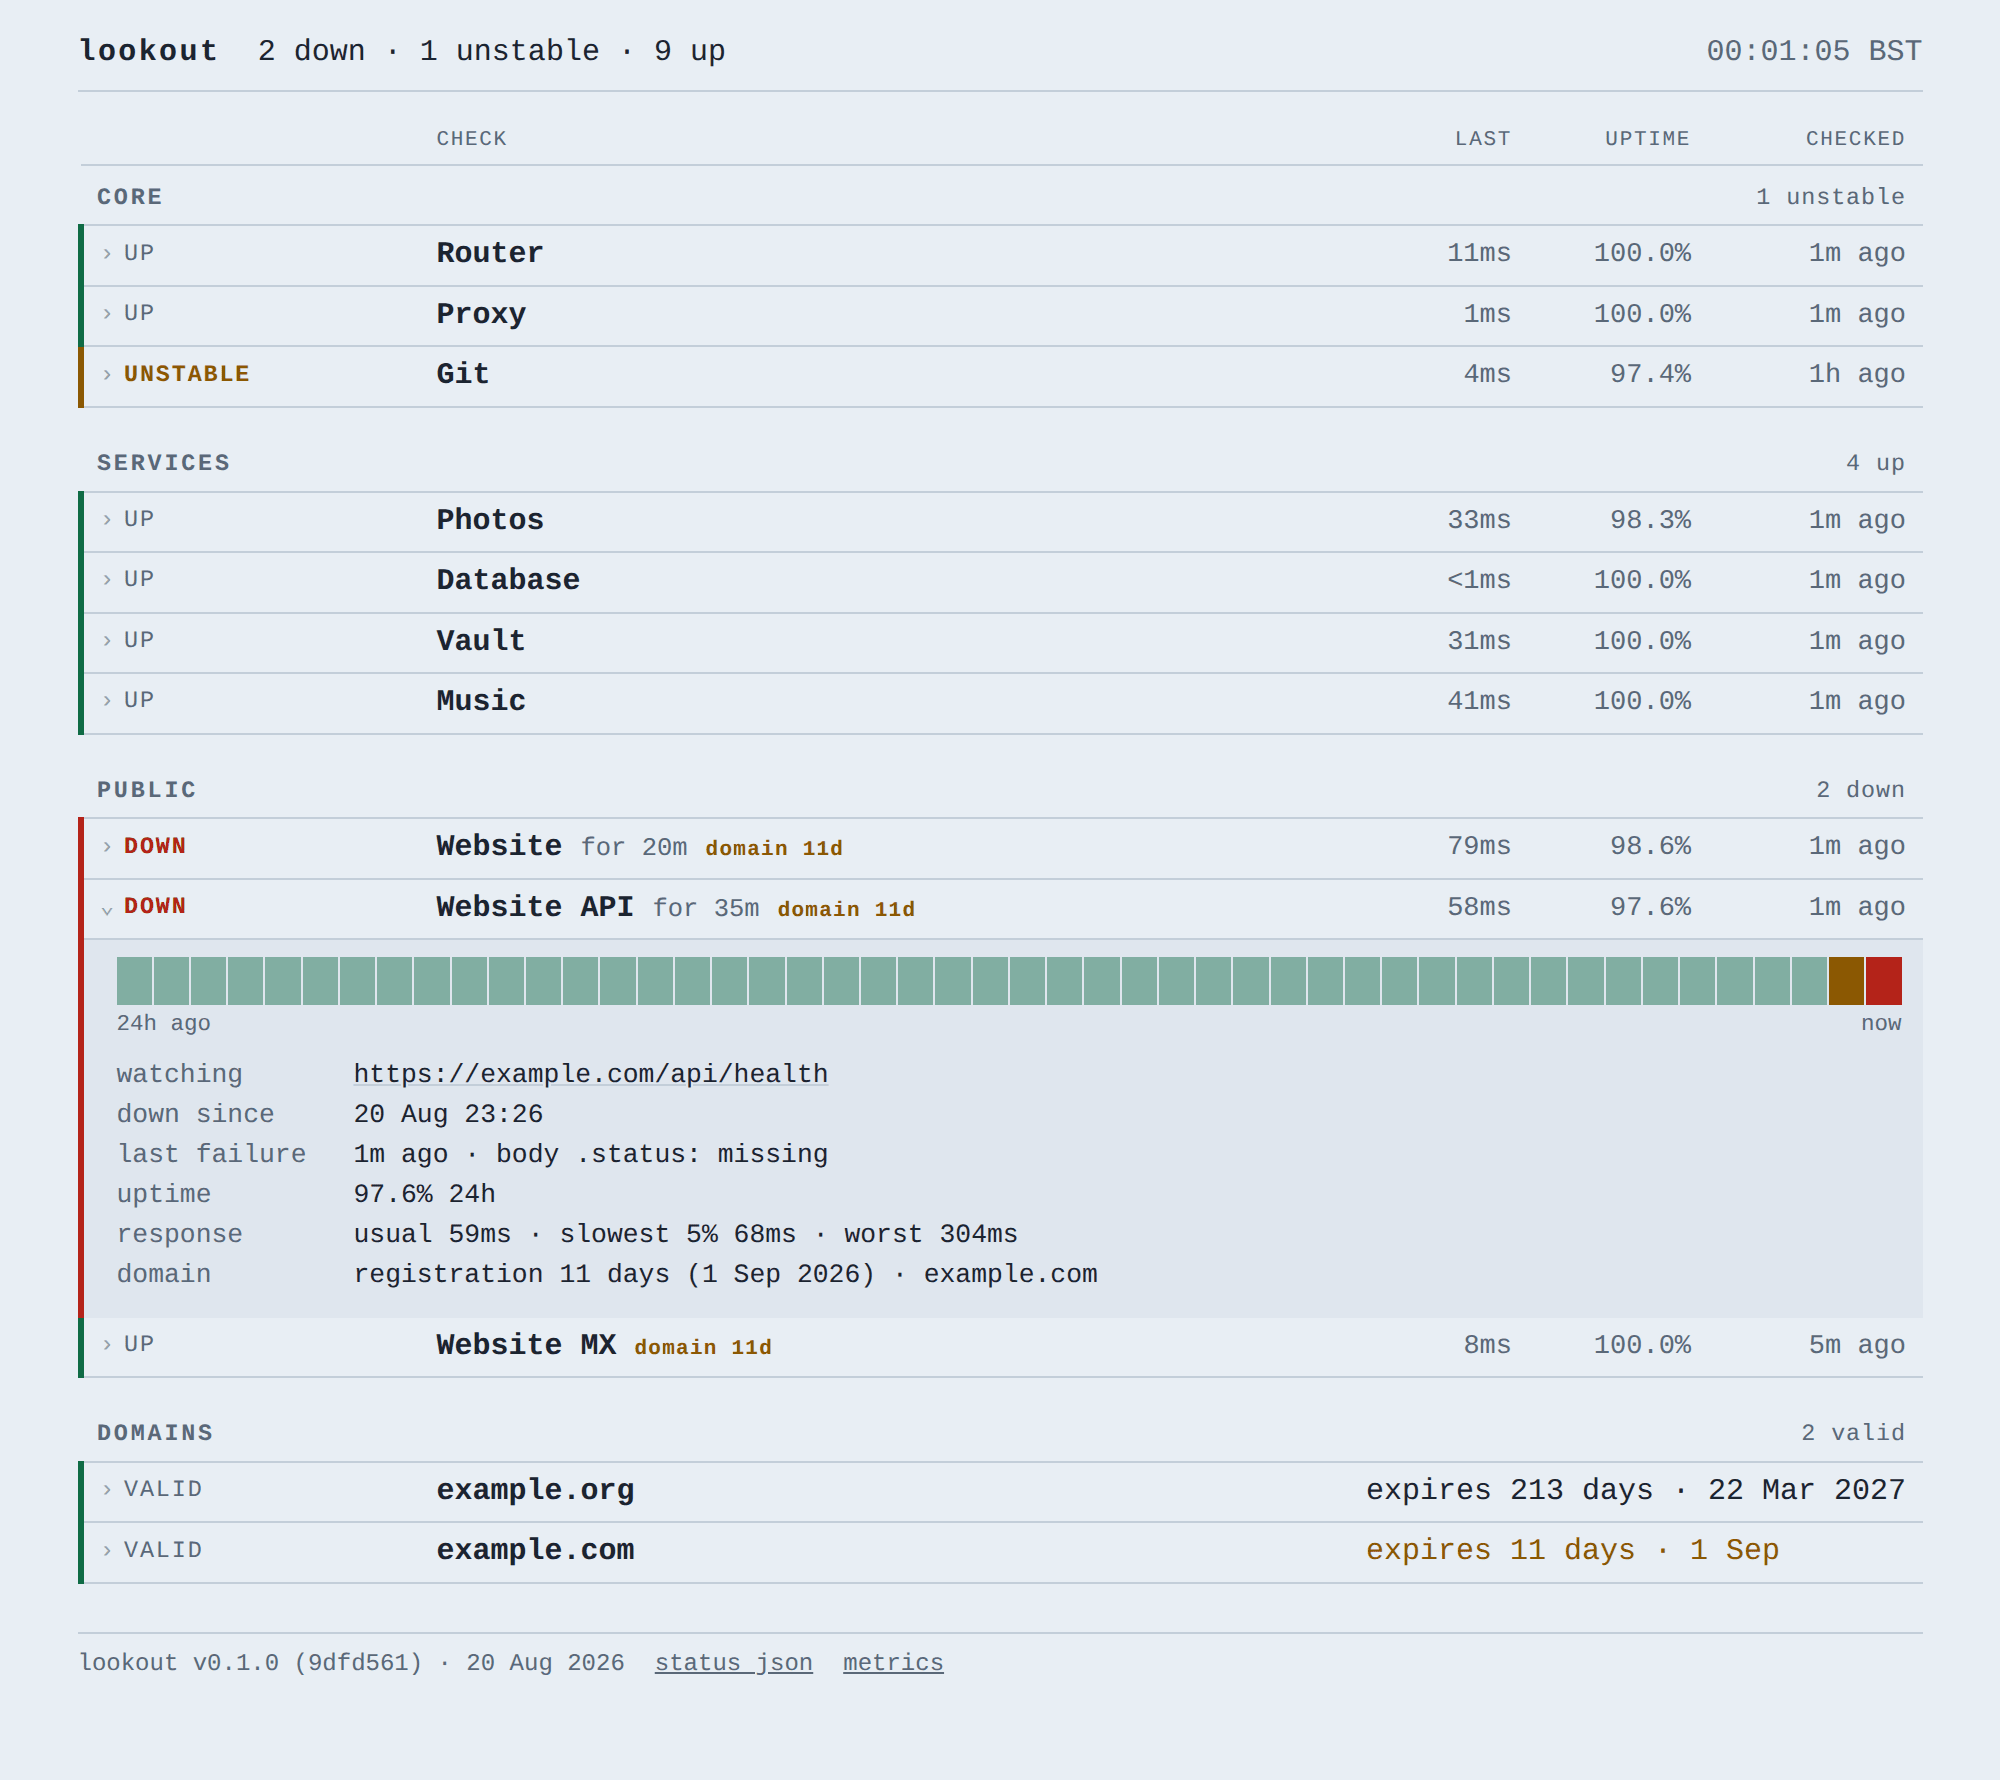
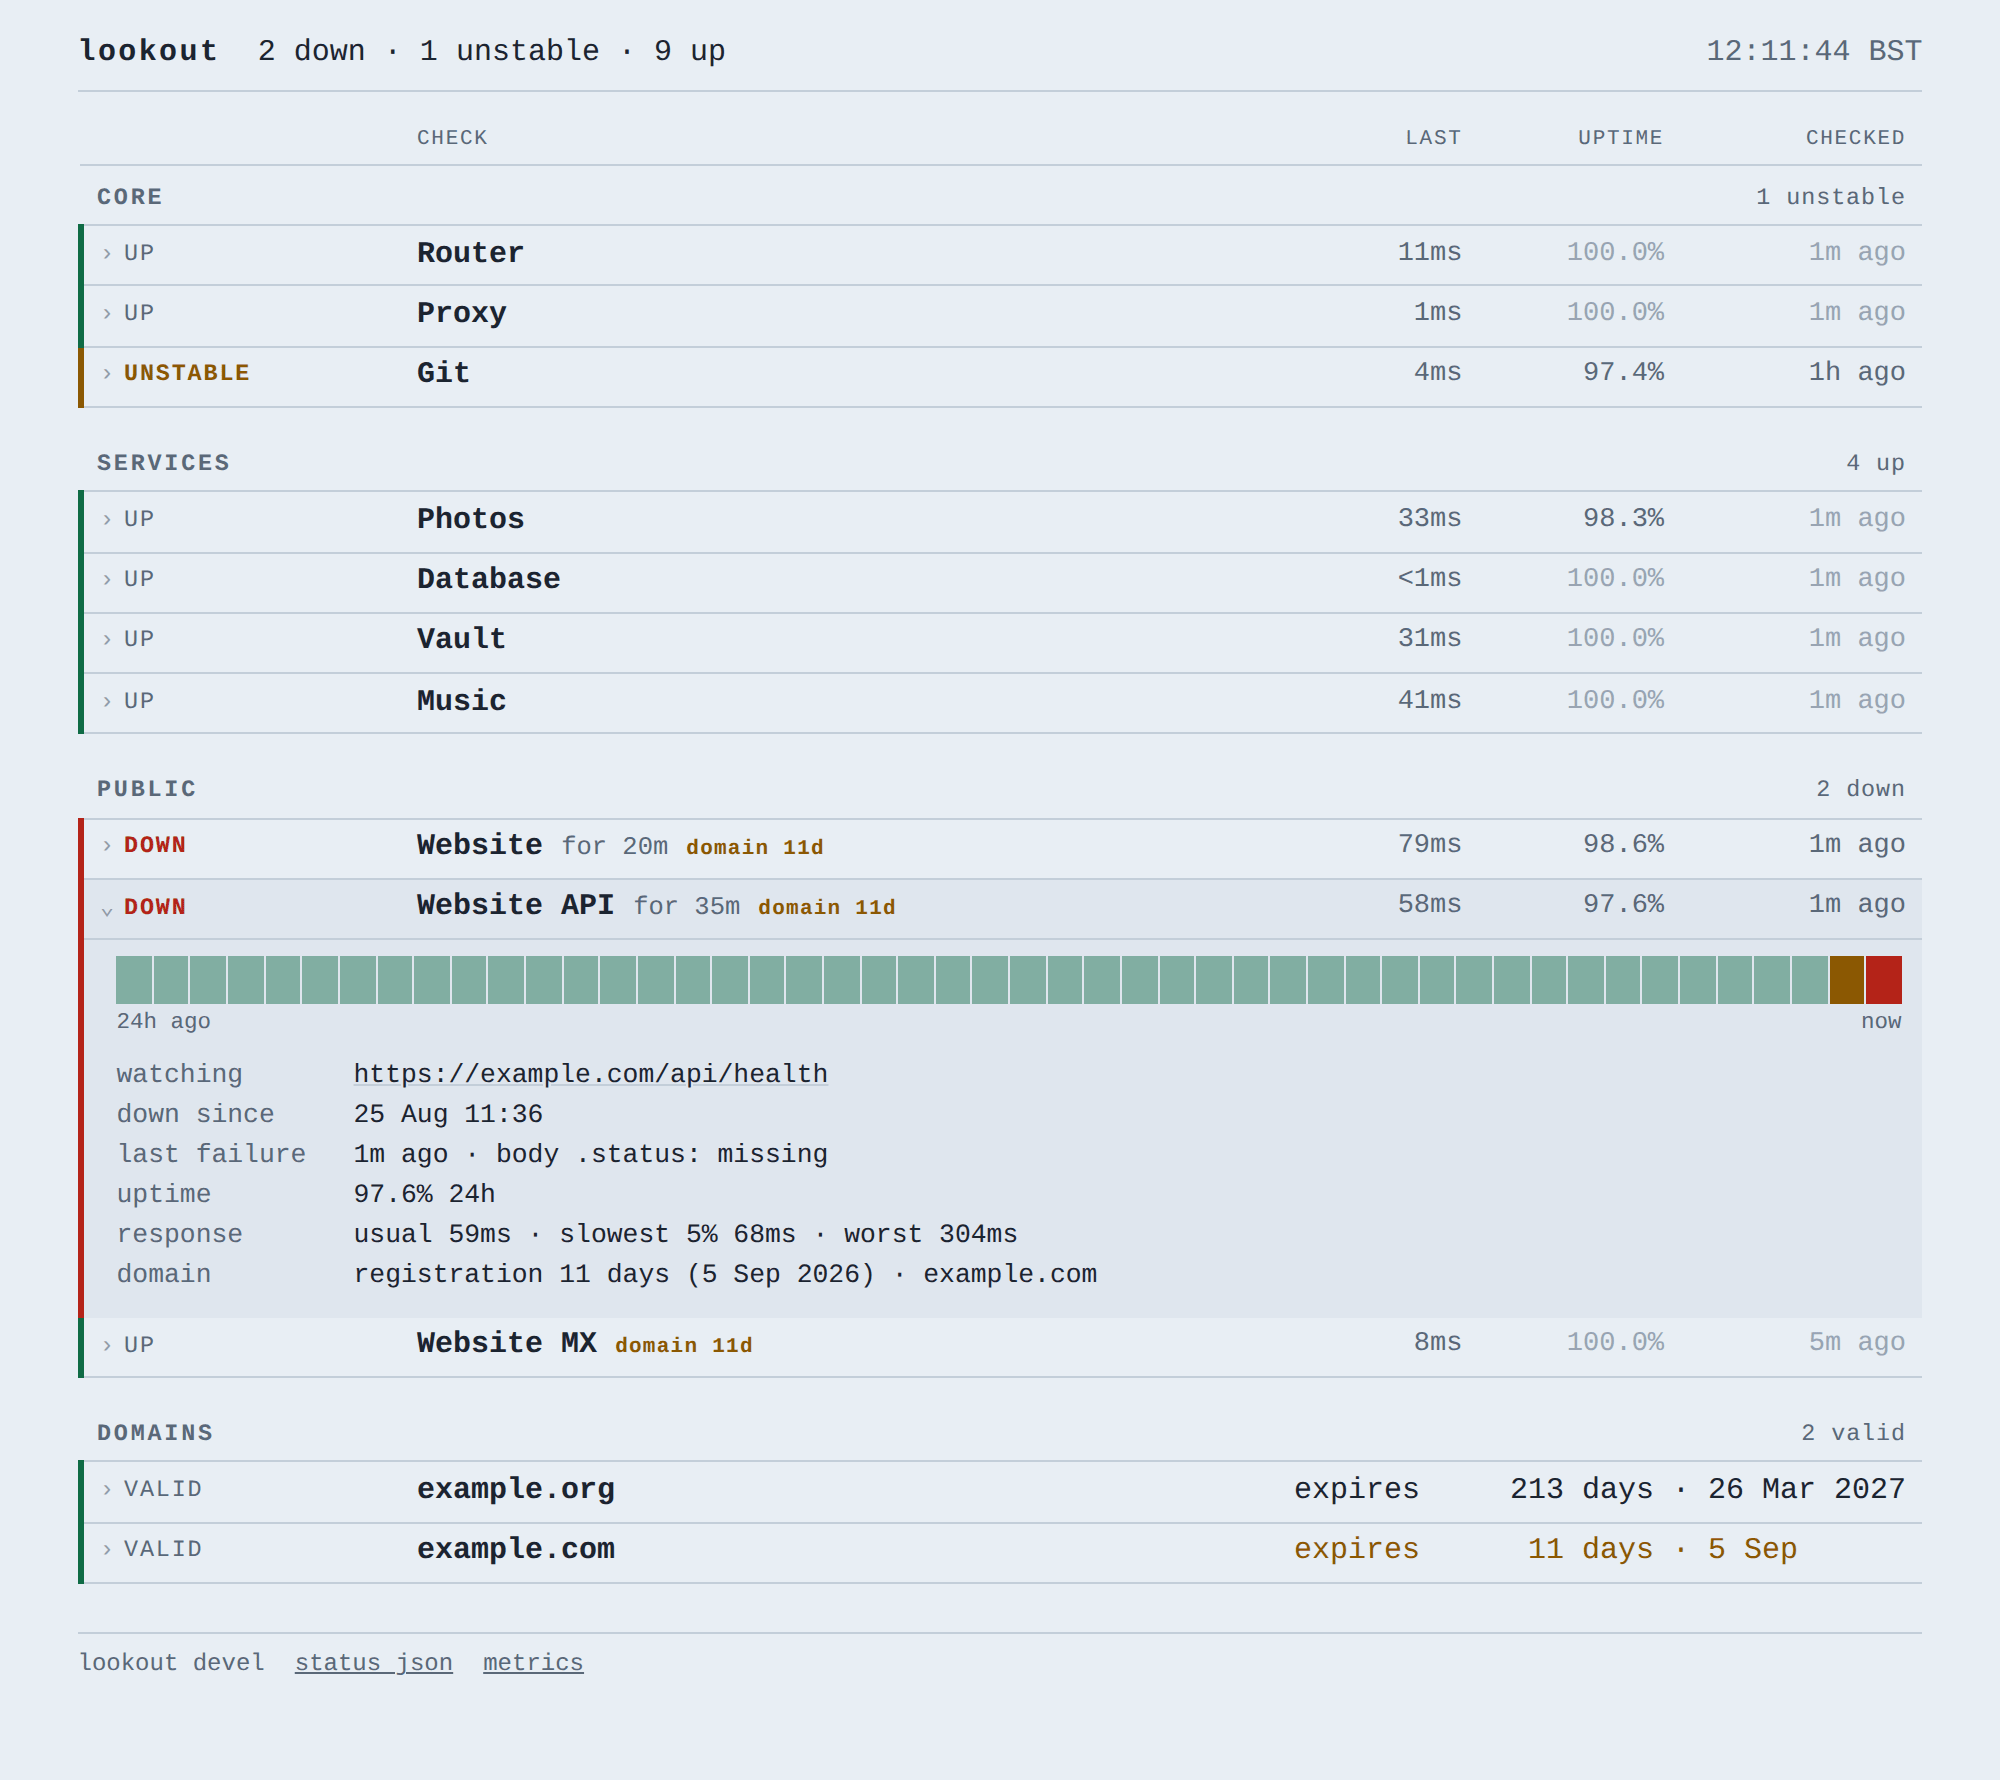
Dim the quiet values with colour, not opacity
An opacity below 1 made the cell a stacking context, which painted it over
the transparent label that makes the row clickable: the dimmed cells stopped
opening the row while the loud one beside them still did.

diff --git a/internal/web/page.css b/internal/web/page.css
@@ -9,6 +9,7 @@
   --panel: #dfe6ee;
   --ink: #1b2430;
   --mute: #5a6878;
+  --faint: #97a4b2;
   --rule: #c3ced9;
   --up: #0f6b45;
   --down: #b42318;
@@ -28,6 +29,7 @@
     --panel: #161d25;
     --ink: #dce4ed;
     --mute: #8b98a6;
+    --faint: #5c6977;
     --rule: #2a343f;
     --up: #3dcc86;
     --down: #ff6d63;
@@ -272,9 +274,13 @@ thead .c-nm { text-align: left; }
    landed on time — is still printed, because the board is evidence and the
    number has to survive a screenshot, a grep and a screen reader. It is
    printed quietly so that the row that departs from the norm is the row the
-   eye lands on. Opacity rather than a colour: it works in both themes and
-   cannot accidentally read as one of the four state colours. */
-.num.quiet { opacity: 0.45; }
+   eye lands on.
+   A colour, and never opacity: opacity below 1 makes the cell a stacking
+   context, which paints it above the transparent label that makes the whole
+   row clickable. The row then opened everywhere except on the cells that
+   were dimmed — the quiet ones swallowed the click and the loud one next to
+   them did not. */
+.num.quiet { color: var(--faint); }
 .ago { color: var(--mute); }
 
 .tag {

diff --git a/internal/web/server_test.go b/internal/web/server_test.go
@@ -1225,8 +1225,14 @@ func TestNormalValuesAreQuietButPresent(t *testing.T) {
 	if !strings.Contains(body, `class="num ago quiet"`) {
 		t.Error("a probe that landed on schedule is printed as loudly as a stalled one")
 	}
-	if !strings.Contains(body, ".num.quiet") {
+	if !strings.Contains(body, ".num.quiet { color:") {
 		t.Error("the stylesheet lost the rule that makes a confirmed norm quiet")
+	}
+	// Opacity here is a trap: it makes the cell a stacking context, which
+	// paints it over the transparent label that makes the row clickable,
+	// and the dimmed cells stop opening the row.
+	if strings.Contains(body, ".num.quiet { opacity") {
+		t.Error("the quiet cells are dimmed with opacity and no longer open the row")
 	}
 }
 
